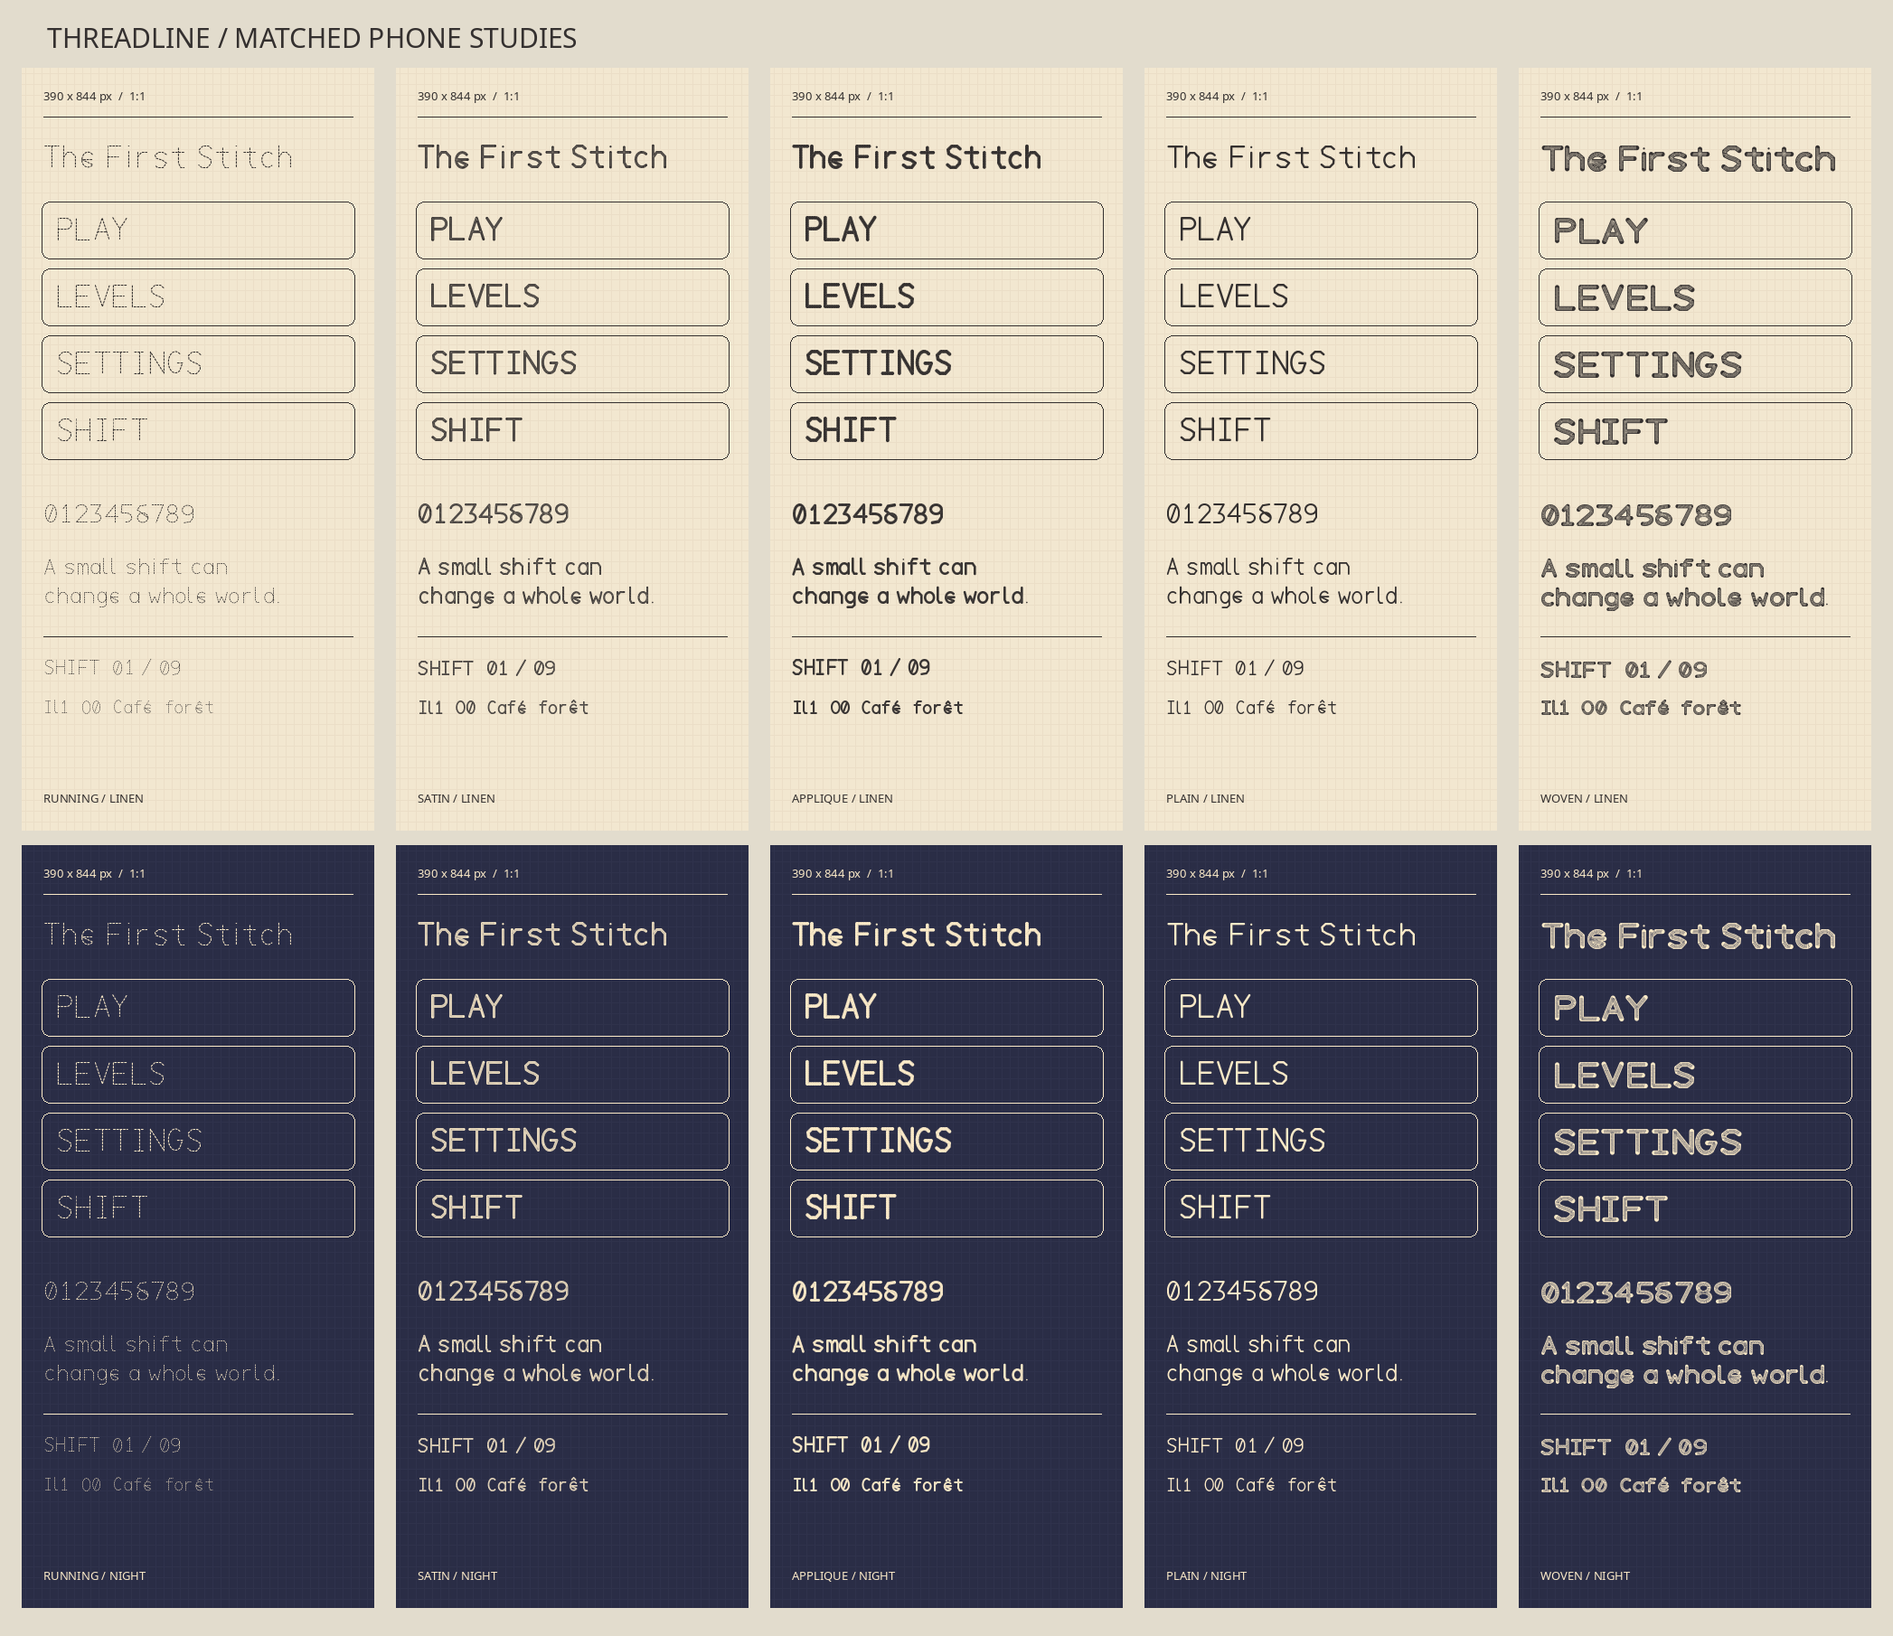
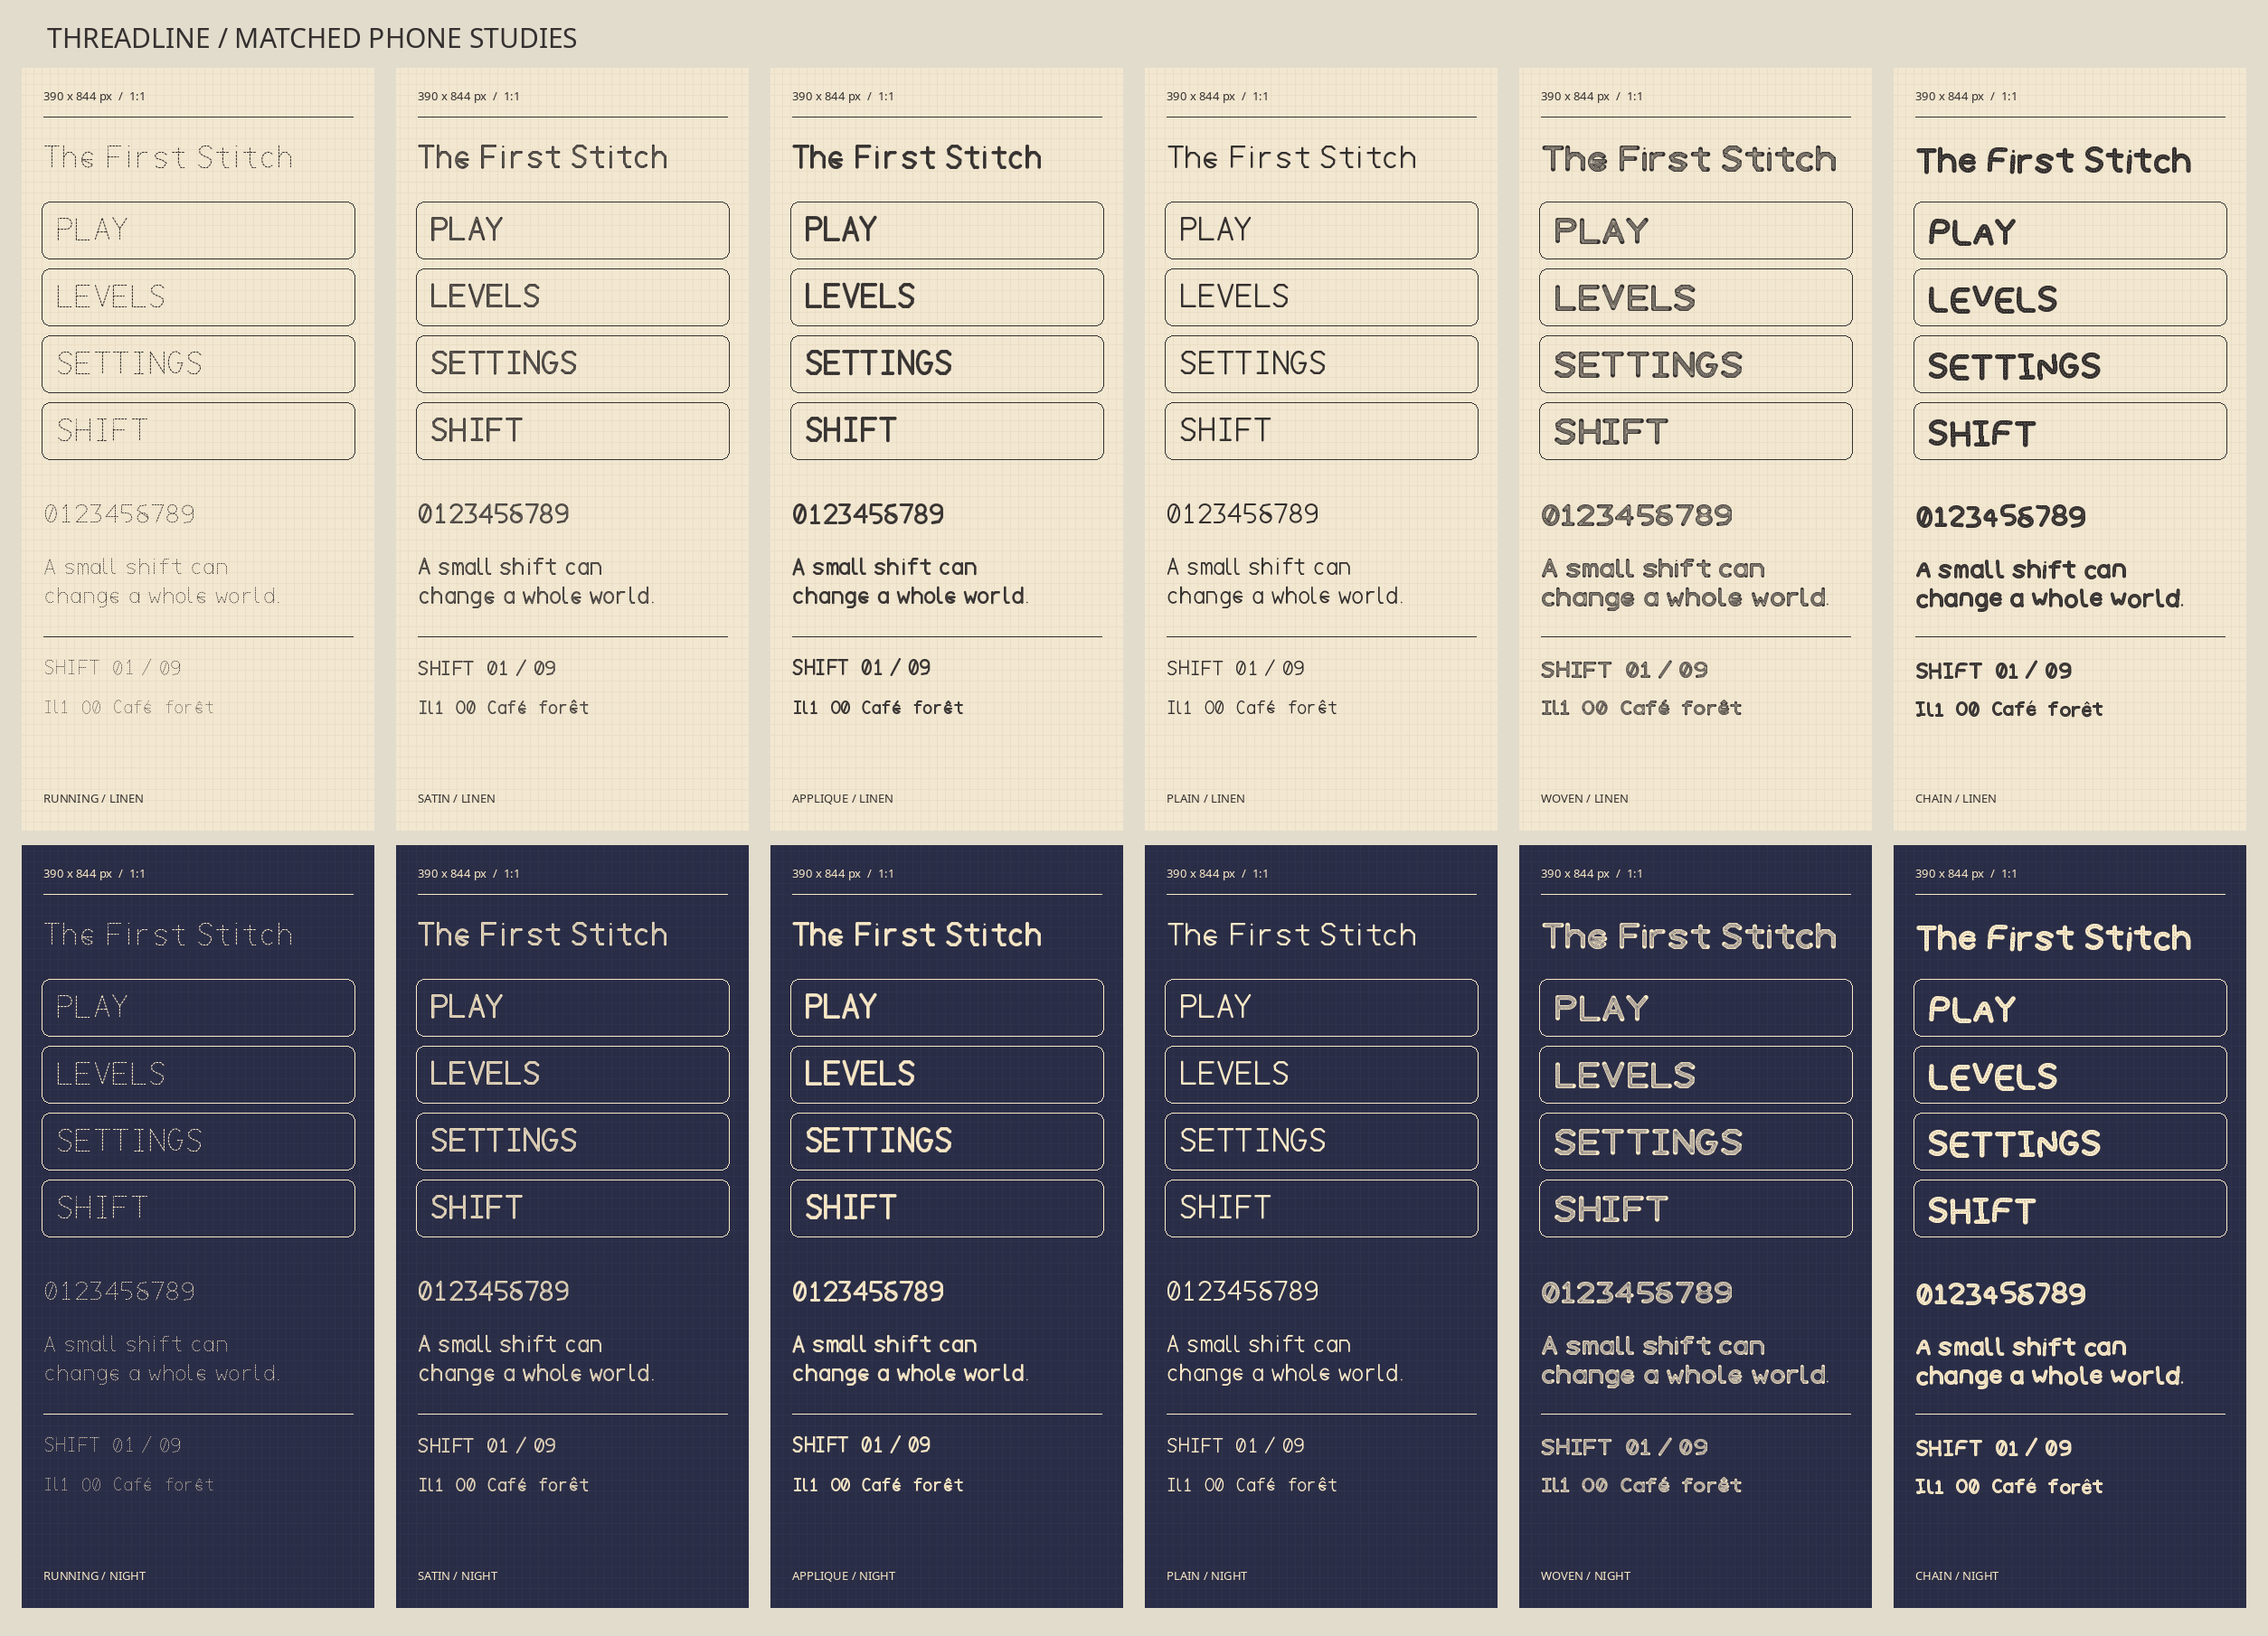
Show chain lettering on cloth

diff --git a/tools/proof.py b/tools/proof.py
@@ -2,12 +2,12 @@
 
 from pathlib import Path
 
-from PIL import Image, ImageDraw, ImageFont
+from PIL import Image, ImageChops, ImageDraw, ImageFilter, ImageFont
 
 
 ROOT = Path(__file__).resolve().parents[1]
 OUTPUT = ROOT / "specimens"
-STYLES = ("Running", "Satin", "Applique", "Plain", "Woven")
+STYLES = ("Running", "Satin", "Applique", "Plain", "Woven", "Chain")
 WORDS = ("PLAY", "LEVELS", "SETTINGS", "SHIFT", "The First Stitch", "0123456789")
 SENTENCE = "A small shift can change a whole world."
 COLORS = {
@@ -108,6 +108,83 @@ def phone_contact_sheet():
     print(target)
 
 
+def raised_text(canvas, position, content, pixels, thread_color, shade_color, highlight_color):
+    mask = Image.new("L", canvas.size)
+    ImageDraw.Draw(mask).text(position, content, font=font("Chain", pixels), fill=255)
+    shadow = ImageChops.offset(mask, 4, 5).filter(ImageFilter.GaussianBlur(3))
+    canvas.paste(shade_color, (0, 0), shadow)
+    canvas.paste(thread_color, (0, 0), mask)
+    highlight = ImageChops.subtract(mask, ImageChops.offset(mask, 0, 2))
+    canvas.paste(highlight_color, (0, 0), highlight)
+
+
+def chain_cloth_page():
+    canvas = Image.new("RGB", (1600, 1000), (231, 216, 188))
+    draw = ImageDraw.Draw(canvas)
+    weave(draw, (0, 0, 1600, 1000), (231, 216, 188), (225, 208, 178))
+    draw.rounded_rectangle((62, 60, 1538, 940), radius=38,
+                           fill=(247, 237, 218), outline=(177, 139, 115), width=4)
+    for x in range(88, 1518, 22):
+        draw.line((x, 83, x + 11, 83), fill=(178, 129, 111), width=3)
+        draw.line((x, 916, x + 11, 916), fill=(178, 129, 111), width=3)
+    for y in range(106, 906, 22):
+        draw.line((85, y, 85, y + 11), fill=(178, 129, 111), width=3)
+        draw.line((1515, y, 1515, y + 11), fill=(178, 129, 111), width=3)
+    draw.text((120, 108), "THREADLINE CHAIN / CLOTH STUDY", font=meta(24), fill=(100, 80, 69))
+    raised_text(canvas, (112, 176), "SHIFT", 198,
+                (161, 69, 67), (83, 47, 47), (224, 129, 111))
+    raised_text(canvas, (120, 415), "The First Stitch", 78,
+                (67, 93, 77), (40, 58, 51), (148, 174, 146))
+    draw = ImageDraw.Draw(canvas)
+    draw.text((125, 568), "PLAY   LEVELS   SETTINGS", font=font("Chain", 47), fill=(66, 59, 57))
+    draw.text((125, 680), SENTENCE,
+              font=fitted_font("Chain", SENTENCE, 39, 900), fill=(66, 59, 57))
+    draw.text((125, 802), "0123456789     Il1  O0", font=font("Chain", 40), fill=(66, 59, 57))
+    draw.rounded_rectangle((1080, 155, 1455, 830), radius=28,
+                           fill=(48, 60, 64), outline=(98, 112, 103), width=5)
+    for y in range(180, 810, 21):
+        draw.line((1102, y, 1114, y), fill=(104, 121, 107), width=2)
+        draw.line((1422, y, 1434, y), fill=(104, 121, 107), width=2)
+    raised_text(canvas, (1120, 235), "PLAY", 62,
+                (246, 218, 154), (38, 42, 44), (255, 242, 196))
+    raised_text(canvas, (1120, 350), "LEVELS", 48,
+                (246, 218, 154), (38, 42, 44), (255, 242, 196))
+    raised_text(canvas, (1120, 460), "SETTINGS", 38,
+                (246, 218, 154), (38, 42, 44), (255, 242, 196))
+    draw = ImageDraw.Draw(canvas)
+    draw.text((1120, 670), "SHIFT  01 / 09", font=font("Chain", 27), fill=(244, 230, 202))
+    target = OUTPUT / "chain-cloth.png"
+    canvas.save(target, optimize=True)
+    print(target)
+
+
+def chain_glyph_page():
+    rows = (
+        "ABCDEFGHIJKLM",
+        "NOPQRSTUVWXYZ",
+        "abcdefghijklm",
+        "nopqrstuvwxyz",
+        "0123456789!?&",
+        "ÀÁÂÄÅÆÇÈÉÊËÌÍ",
+        "àáâäåæçèéêëìí",
+        "ÑÖØÙÜÝßœøłđþ€",
+    )
+    canvas = Image.new("RGB", (1600, 1120), (245, 235, 215))
+    draw = ImageDraw.Draw(canvas)
+    weave(draw, (0, 0, 1600, 1120), (245, 235, 215), (238, 225, 203))
+    draw.text((75, 38), "THREADLINE CHAIN / GLYPH REVIEW", font=meta(30), fill=(94, 71, 65))
+    for row_index, row in enumerate(rows):
+        top = 115 + row_index * 122
+        for column, char in enumerate(row):
+            left = 68 + column * 112
+            draw.rounded_rectangle((left, top, left + 100, top + 105), radius=9,
+                                   outline=(210, 191, 166), width=2)
+            draw.text((left + 18, top + 11), char, font=font("Chain", 68), fill=(62, 54, 52))
+    target = OUTPUT / "chain-glyphs.png"
+    canvas.save(target, optimize=True)
+    print(target)
+
+
 if __name__ == "__main__":
     OUTPUT.mkdir(exist_ok=True)
     for variant in STYLES:
@@ -115,3 +192,5 @@ if __name__ == "__main__":
         phone_page(variant, False)
         phone_page(variant, True)
     phone_contact_sheet()
+    chain_cloth_page()
+    chain_glyph_page()

diff --git a/README.md b/README.md
@@ -13,28 +13,32 @@ Version 0.2.0 is an installable design candidate for the game, pending review in
 | Applique | Wide cut-cloth paths have fine stitch cuts along both edges. | Menu titles and level names |
 | Plain | The same letter skeletons become clean, continuous strokes. | HUD, settings, and instructions |
 | Woven | Extra-wide letter paths hold dense angled thread cuts inside a heavy outline. | Home menu, level names, and short calls to action |
+| Chain | Softly turned, bouncy letter paths hold spaced loop openings and small needle entries. | Embroidered titles, buttons, and level names |
 
-**Recommendation:** Use Threadline Woven for the home menu, level names, and short prominent labels.
+**Recommendation:** Use Threadline Chain for the home menu, level names, and short prominent labels.
 Use Threadline Plain for longer settings and instruction text.
-Woven stretches the original letter paths horizontally by one quarter and gives them a much heavier thread band.
-Its angled cuts follow each path and leave a strong silhouette at phone size.
+Chain rounds the turns of the original letter paths, uses small consistent shifts in angle and baseline, and places loop openings along the stroke direction.
+Its broad outline remains readable when the stitch details fade at phone size.
 The Plain style keeps the same letter skeletons for quieter text.
 The `I` has crossbars, `l` has a foot, `1` has an angled head and base, and `0` has an internal slash.
 Small, consistent joins let repeated letters keep the same rhythm without loose ends or decorative knots.
 
 ## Specimens
 
-[Matched phone comparison](specimens/phone-comparison.png) shows all five styles at 390 by 844 pixels, one image pixel per screen pixel, on linen and a dark night palette.
+[Matched phone comparison](specimens/phone-comparison.png) shows all six styles at 390 by 844 pixels, one image pixel per screen pixel, on linen and a dark night palette.
 Each style also has a [large specimen](specimens/applique-large.png) and separate 390 by 844 pixel phone images in `specimens/`.
 Every direction shows PLAY, LEVELS, SETTINGS, SHIFT, "The First Stitch", 0-9, and the same mixed-case sentence.
 The specimens include accent and ambiguity checks.
+[Chain cloth study](specimens/chain-cloth.png) shows how the same font outlines look with thread colors, a slight highlight, and a soft shadow.
+Those lighting effects belong to the specimen and are not encoded in the font.
+[Chain glyph review](specimens/chain-glyphs.png) shows the full basic alphabet, numerals, and selected accented letters at a larger size.
 
 ![Matched Threadline phone specimens](specimens/phone-comparison.png)
 
 ## Files and build
 
 - `source/paths.py` contains the editable original glyph centerlines and accent drawings.
-- `tools/build.py` converts those drawings into scalable outlines and builds five TTF and WOFF2 pairs in `fonts/`.
+- `tools/build.py` converts those drawings into scalable outlines and builds six TTF and WOFF2 pairs in `fonts/`.
 - `tools/proof.py` generates the matched specimen images.
 - `tools/check.py` checks mapping, names, outlines, horizontal and vertical metrics, and WOFF2 decoding.
 - `OFL.txt` is the SIL Open Font License 1.1 for the sources and exports.
@@ -44,7 +48,7 @@ Run `python3 -m pip install -r requirements.txt`, then `python3 tools/build.py`,
 The build can use the system `brotli` command when the pinned Python Brotli package is unavailable.
 On this machine, two consecutive builds produced identical TTF and WOFF2 hashes.
 
-All five fonts map 291 characters.
+All six fonts map 291 characters.
 They include uppercase, lowercase, numerals, printable ASCII symbols, typographic punctuation, common currency marks, Latin-1 accents, and many extended Latin letters.
 The font files have installable embedding permissions and a small GPOS kerning set for common display pairs.
 

diff --git a/ROADMAP.md b/ROADMAP.md
@@ -3,12 +3,12 @@
 ## Game candidate
 
 - [x] Draw original uppercase, lowercase, numerals, punctuation, and useful accented Latin letters.
-- [x] Build Running, Satin, Applique, and heavy Woven directions with a related Plain UI style.
+- [x] Build Running, Satin, Applique, Woven, and Chain directions with a related Plain UI style.
 - [x] Export installable TTF and WOFF2 files from editable source drawings.
 - [x] Render matched large and 390 by 844 pixel phone specimens on light and dark backgrounds.
 - [x] Check character mapping, font names, outlines, metrics, kerning presence, and WOFF2 decoding.
 - [x] Repeat the build and compare output hashes.
-- [ ] Review Woven and Plain inside the Godot 4.7 game on an Android phone.
+- [ ] Review Chain and Plain inside the Godot 4.7 game on an Android phone.
 - [ ] Refine spacing and curves after actual device review, including small instruction text.
 
 ## Public gallery gate
